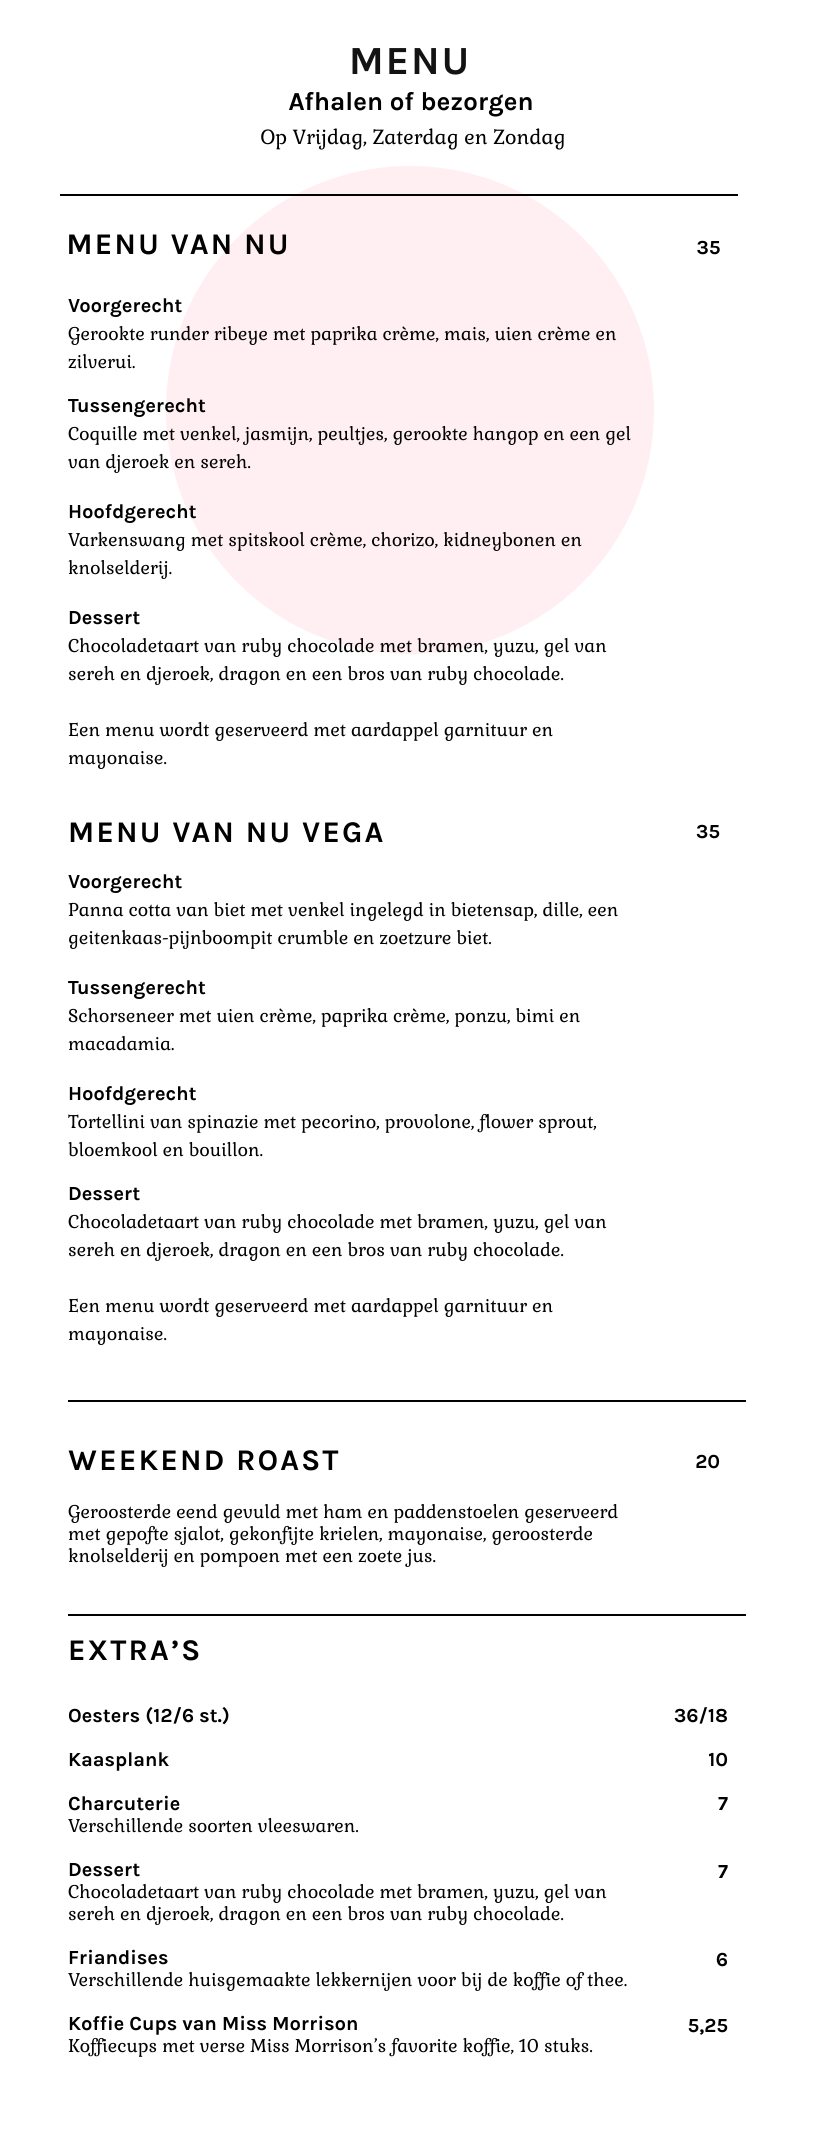
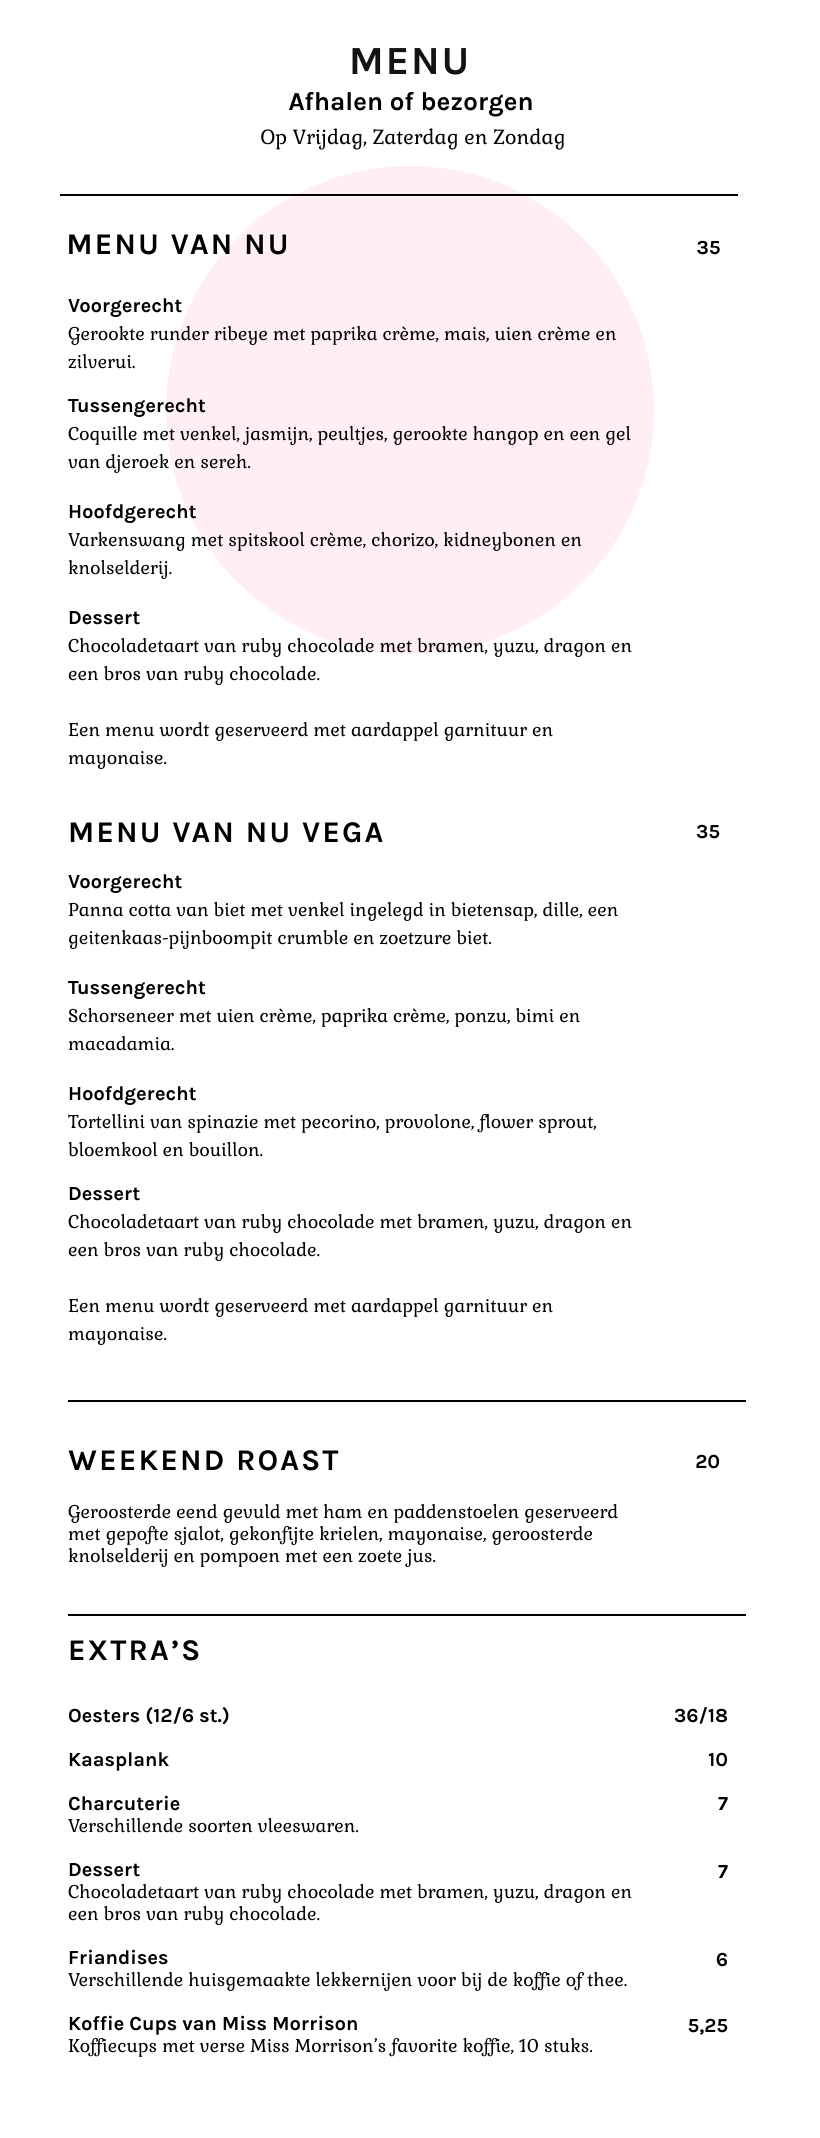
change dessert

diff --git a/src/client/roast/index.html b/src/client/roast/index.html
@@ -198,7 +198,7 @@
         </div>
       </div>
       <div class="form-group row">
-        <label for="dessert" class="col-sm-6">Dessert (7,00 per stuk), Chocoladetaart van ruby chocolade met bramen, yuzu, gel van sereh en djeroek, dragon en een bros van ruby chocolade. 
+        <label for="dessert" class="col-sm-6">Dessert (7,00 per stuk), Chocoladetaart van ruby chocolade met bramen, dragon en een bros van ruby chocolade. 
         </label>
         <div class="col-sm-6">
             <input type="number" class="form-control small-field" name="dessert" id="dessert">
